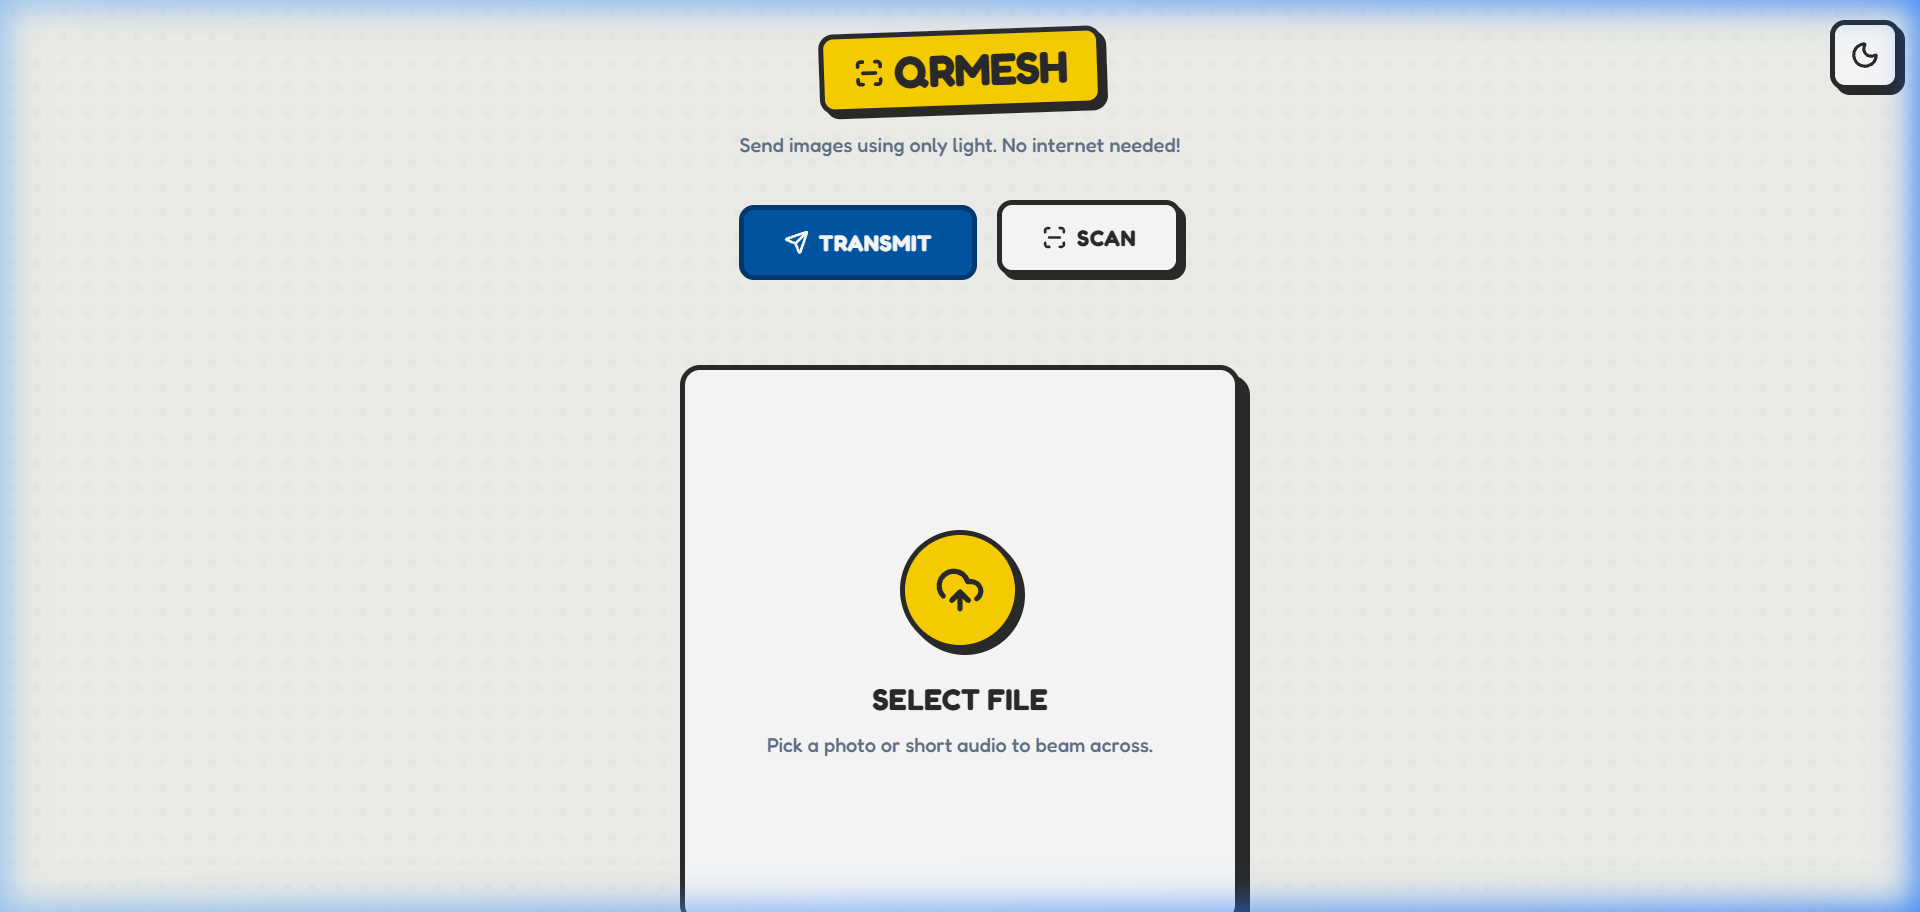
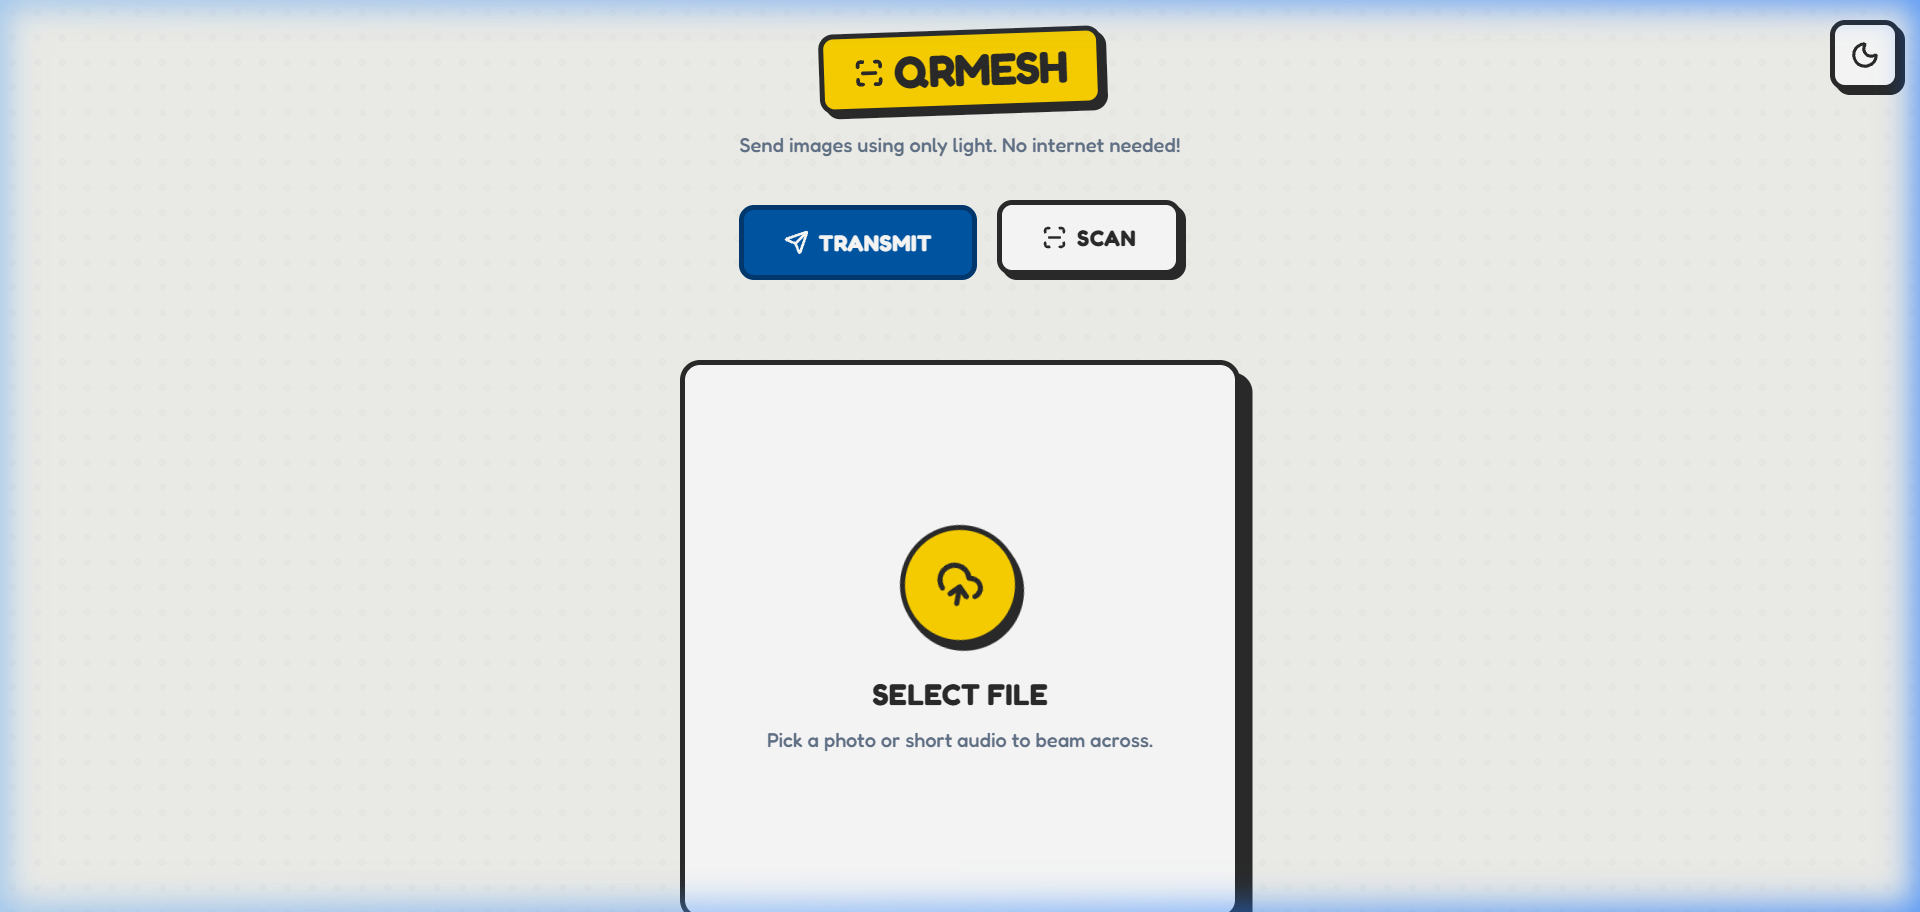
feat(ui): add GitHub button and live app links in App.tsx

Changed region(s): [[0.4062, 0.5833, 0.5938, 0.8289], [0.3438, 0.3684, 0.6562, 0.4298]]

diff --git a/src/App.tsx b/src/App.tsx
@@ -6,7 +6,7 @@ import { useState, useEffect } from 'react';
 import SendMode from './components/SendMode';
 import ReceiveMode from './components/ReceiveMode';
 import { cn } from './utils/cn';
-import { ScanLine, Send, Moon, Sun } from 'lucide-react';
+import { ScanLine, Send, Moon, Sun, Github } from 'lucide-react';
 import { AppMode } from './types';
 
 export default function App() {
@@ -21,11 +21,21 @@ export default function App() {
 
   return (
     <div className={cn("min-h-screen bg-[var(--lego-bg)] text-[var(--lego-text)] overflow-hidden relative transition-colors duration-300", isDark ? "dark" : "")}>
-      {/* Dark Mode Toggle */}
-      <div className="absolute top-4 right-4 z-50">
+      {/* Top Bar Controls */}
+      <div className="absolute top-4 right-4 z-50 flex items-center gap-3">
+        <a
+          href="https://github.com/hasim2006/QR-Mesh"
+          target="_blank"
+          rel="noopener noreferrer"
+          title="View on GitHub"
+          className="p-3 bg-[var(--lego-card)] border-4 border-[var(--lego-border)] shadow-[4px_4px_0px_var(--lego-border)] rounded-xl hover:-translate-y-0.5 hover:shadow-[5px_5px_0px_var(--lego-border)] active:translate-y-1 active:shadow-none transition-all text-[var(--lego-text)] flex items-center justify-center"
+        >
+          <Github className="w-6 h-6" strokeWidth={2.5} />
+        </a>
         <button
           onClick={() => setIsDark(!isDark)}
           className="p-3 bg-[var(--lego-card)] border-4 border-[var(--lego-border)] shadow-[4px_4px_0px_var(--lego-border)] rounded-xl hover:-translate-y-0.5 hover:shadow-[5px_5px_0px_var(--lego-border)] active:translate-y-1 active:shadow-none transition-all text-[var(--lego-text)]"
+          aria-label="Toggle dark mode"
         >
           {isDark ? <Sun className="w-6 h-6" strokeWidth={2.5}/> : <Moon className="w-6 h-6" strokeWidth={2.5}/>}
         </button>
@@ -55,7 +65,7 @@ export default function App() {
             </h1>
           </div>
           <p className="text-[var(--lego-muted)] font-medium text-center transition-colors duration-300">
-            Send images using only light. No internet needed!
+            Send images and audio using only light. Zero internet needed!
           </p>
           
           {/* Mode Toggle */}
@@ -93,8 +103,14 @@ export default function App() {
         </main>
         
         {/* Footer */}
-        <footer className="py-6 text-center text-sm font-bold text-[var(--lego-muted)] uppercase tracking-widest transition-colors duration-300">
-          <p>No internet • No servers</p>
+        <footer className="py-6 text-center text-xs font-bold text-[var(--lego-muted)] uppercase tracking-widest transition-colors duration-300 flex flex-col sm:flex-row items-center justify-center gap-3">
+          <p>No internet &bull; No servers &bull; Air-Gapped</p>
+          <span className="hidden sm:inline">&bull;</span>
+          <div className="flex items-center gap-3">
+            <a href="https://qr-filemesh.netlify.app/" className="hover:underline text-[var(--lego-text)]">qr-filemesh.netlify.app</a>
+            <span>&bull;</span>
+            <a href="https://github.com/hasim2006/QR-Mesh" target="_blank" rel="noopener noreferrer" className="hover:underline text-[var(--lego-text)]">GitHub</a>
+          </div>
         </footer>
       </div>
     </div>
